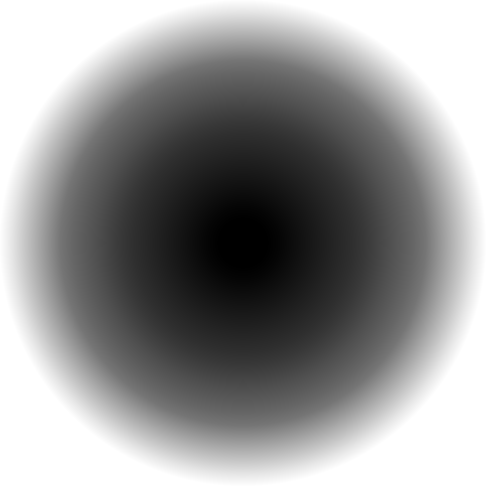
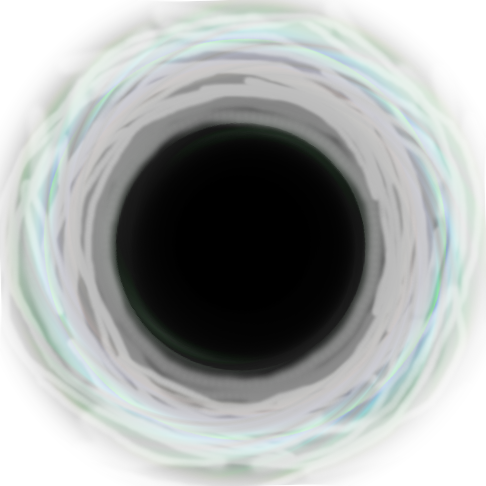
Added Alan Lu's updated image for black holes. They are now cooler/more realistic.

diff --git a/Disasteroids/trunk/src/disasteroids/BlackHole.java b/Disasteroids/trunk/src/disasteroids/BlackHole.java
@@ -38,6 +38,11 @@ public class BlackHole extends GameObject
      */
     private int numLeftToEat;
 
+    /**
+     * Angle at which to draw black hole.
+     */
+    private double angle;
+
     public BlackHole( double x, double y )
     {
         // TODO: Sync creation
@@ -56,6 +61,9 @@ public class BlackHole extends GameObject
      */
     public void act()
     {
+        // Rotate
+        angle += .05;
+
         // Find nearby objects.
         Set<GameObject> victims = getNearbyVictims();
 
@@ -63,7 +71,7 @@ public class BlackHole extends GameObject
         for ( GameObject go : victims )
         {
             double angle = Util.getAngle( this, go );
-            
+
             double magnitude = Math.min( Math.pow( power, 1.9 ) / Math.pow( Util.getDistance( this, go ), 1.7 ), 1 );
             go.setVelocity( go.getDx() + magnitude * Math.cos( angle ), go.getDy() + magnitude * Math.sin( angle ) );
 
@@ -124,7 +132,8 @@ public class BlackHole extends GameObject
 
     public void draw( Graphics g )
     {
-        MainWindow.frame().drawImage( g, ImageLibrary.getBlackHole(), (int) getX(), (int) getY() );
+        MainWindow.frame().drawImage( g, ImageLibrary.getBlackHole(), (int) getX(), (int) getY(), angle, 1 );
+        // I think generating a black hole is much cooler
     }
 
     /**
